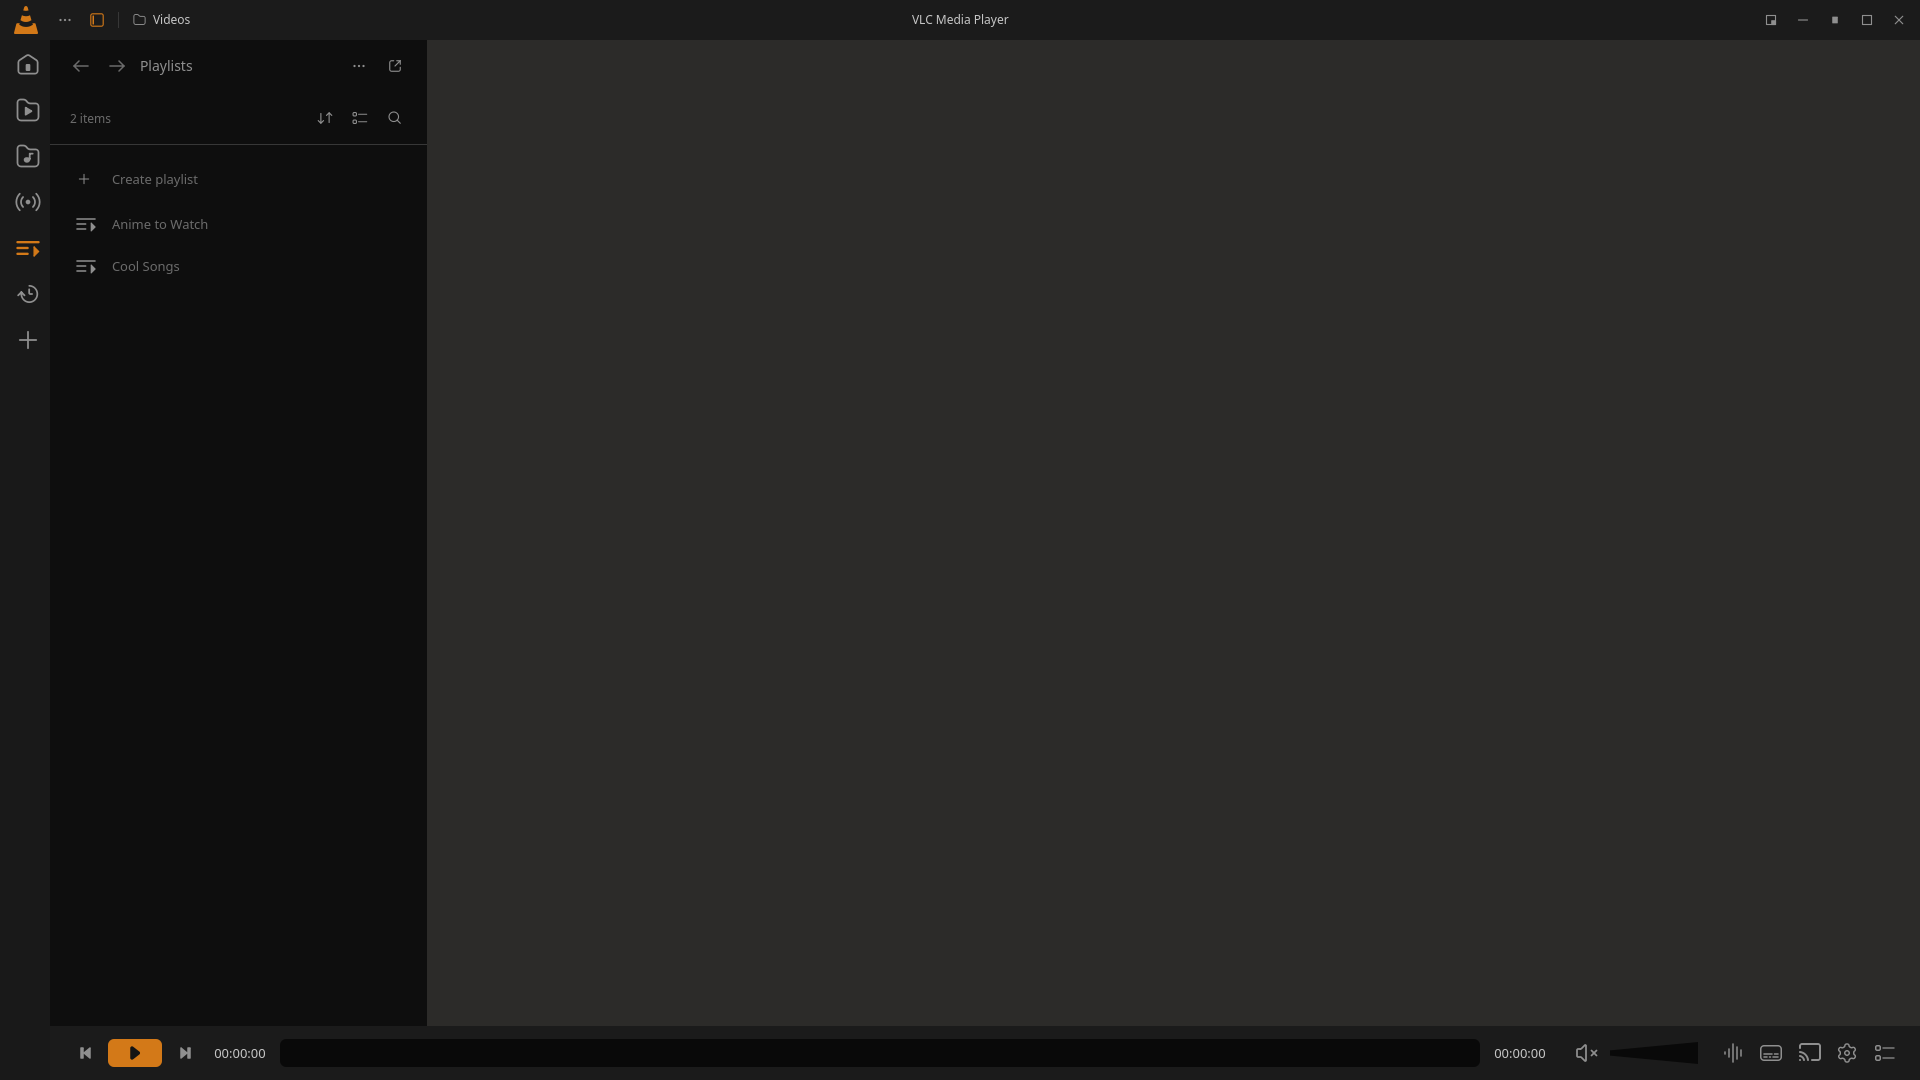
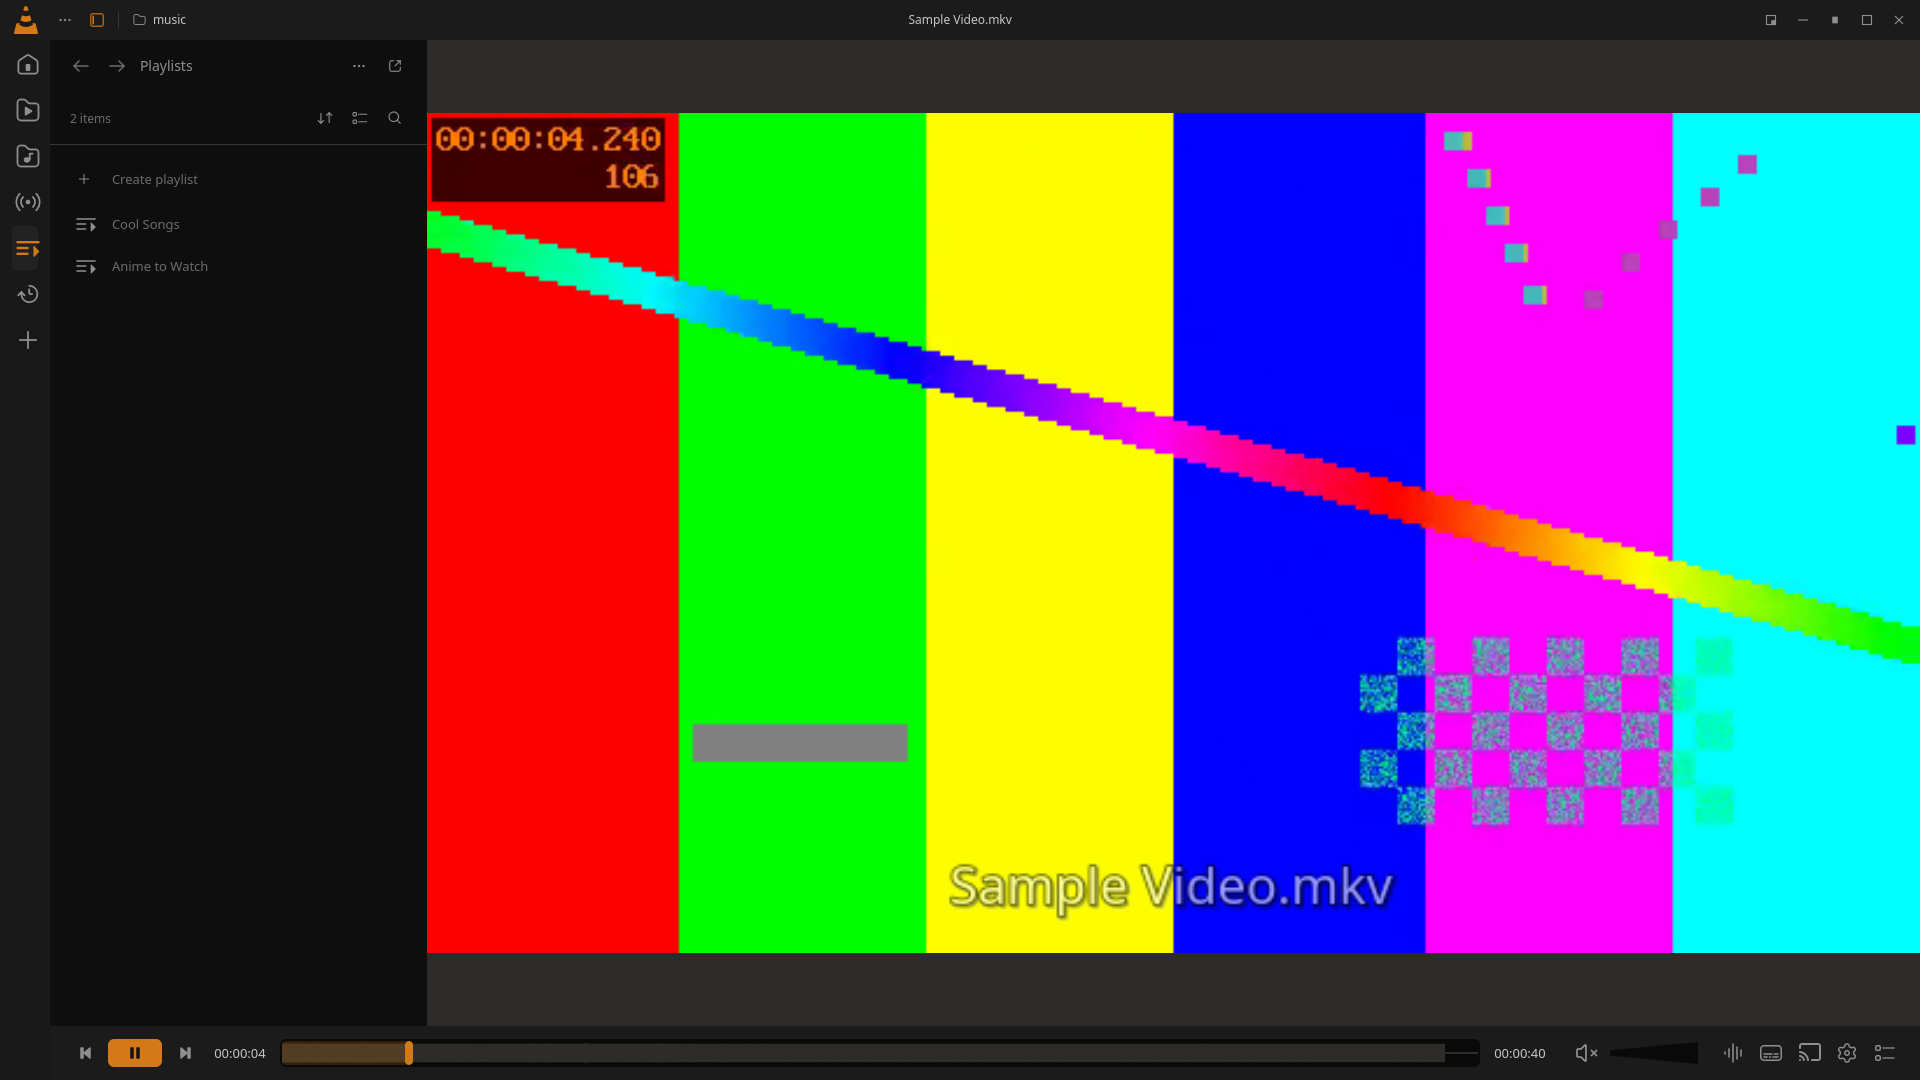
fix(ui): match Figma playlist ordering

diff --git a/qml/PlaylistsPanel.qml b/qml/PlaylistsPanel.qml
@@ -12,7 +12,8 @@ Rectangle {
     property bool compactRows: false
     property bool searchOpen: false
     property string searchText: ""
-    property bool reverseSort: false
+    // Figma's default playlist order is descending by name (Cool Songs before Anime to Watch).
+    property bool reverseSort: true
 
     function matches(name) { return searchText.trim().length === 0 || name.toLowerCase().includes(searchText.trim().toLowerCase()) }
     function fileCount() {

diff --git a/docs/figma-parity.md b/docs/figma-parity.md
@@ -109,7 +109,7 @@ Side-pane header and Music category alignment (2026-10-24): the Back/Forward gly
 
 Collapsed navigation-rail follow-up (2026-10-24): the previous 26 px buttons packed the seven entries at 29 px intervals, visibly tighter than Figma. The collapsed rail now uses 44 px rows with 2 px gaps and no spacer before Add; its 1920×1080 centers are `64/110/156/202/248/294/340`, matching the prototype. Row height shrinks with the available rail height so all seven entries remain visible at the 560×340 minimum window; the offscreen capture measured 41 px rows and centers `57/100/143/186/229/272/315`. Expanded-rail geometry is unchanged.
 
-Playlist pane chrome follow-up (2026-10-24): a side-by-side comparison of Figma's Playlists state with a fresh 1920×1080 VLC Neo capture found the Back/Forward pair, title, More/Open buttons, and second-row sort/view/search controls were all shifted left by roughly 10 px. The right inset and button gaps now align those controls with the prototype; the implementation capture is refreshed at [`playlists-sidebar.png`](screenshots/playlists-sidebar.png). The two fixture playlist names are alphabetized locally, while Figma's example order is curated.
+Playlist pane chrome follow-up (2026-10-24): a side-by-side comparison of Figma's Playlists state with a fresh 1920×1080 VLC Neo capture found the Back/Forward pair, title, More/Open buttons, and second-row sort/view/search controls were all shifted left by roughly 10 px. The right inset and button gaps now align those controls with the prototype; the implementation capture is refreshed at [`playlists-sidebar.png`](screenshots/playlists-sidebar.png). Figma's example order is descending by name, so the side pane now defaults to that order and the sort button toggles to ascending. The isolated keyboard run confirmed this order on opening Playlists and verified that Space on Sort changes the list to ascending.
 
 Video side-pane alignment follow-up (2026-10-24): the Player – Light `970:3792` comparison showed the nested folder breadcrumb must retain the collapsed root marker at depth two (`… ▸ The Wand ▸ S01`). It also showed the first 32×32 row thumbnail belongs at x=70 and its filename at x=112 in the 1920 px frame; the local thumbnail had been 6 px too far right while the text was correct. The breadcrumb, thumbnail inset, and toolbar controls now match those positions. A three-file isolated fixture verifies `… ▸ The Wand ▸ S01`, the 50 px rail and all seven rail centers, and the regenerated light implementation capture is [`player-light-sidebar.webp`](screenshots/player-light-sidebar.webp); fixture thumbnail artwork differs from Figma.
 

diff --git a/README.md b/README.md
@@ -153,6 +153,7 @@ episodes. A shortcut to search OpenSubtitles for the current title is included.
 > trailer, © Blender Foundation, licensed CC BY 3.0. The current
 > `player.webp`, `customize.webp` and `video-effects-flower.webp` use the public [MDN CC0 flower video](https://interactive-examples.mdn.mozilla.net/media/cc0-videos/flower.mp4).
 > `home.webp`, `home-sidebar.png` and `home-full-layout-review.webp` use generated color-bar video fixtures and tagged demo audio; their media artwork is test content, not a Figma export.
+> `playlists-sidebar.png` uses a generated color-bar video fixture.
 > `scripts/screenshots.sh` regenerates captures with Sintel; the preference
 > screens come from `scripts/smoke-test.sh`.
 
